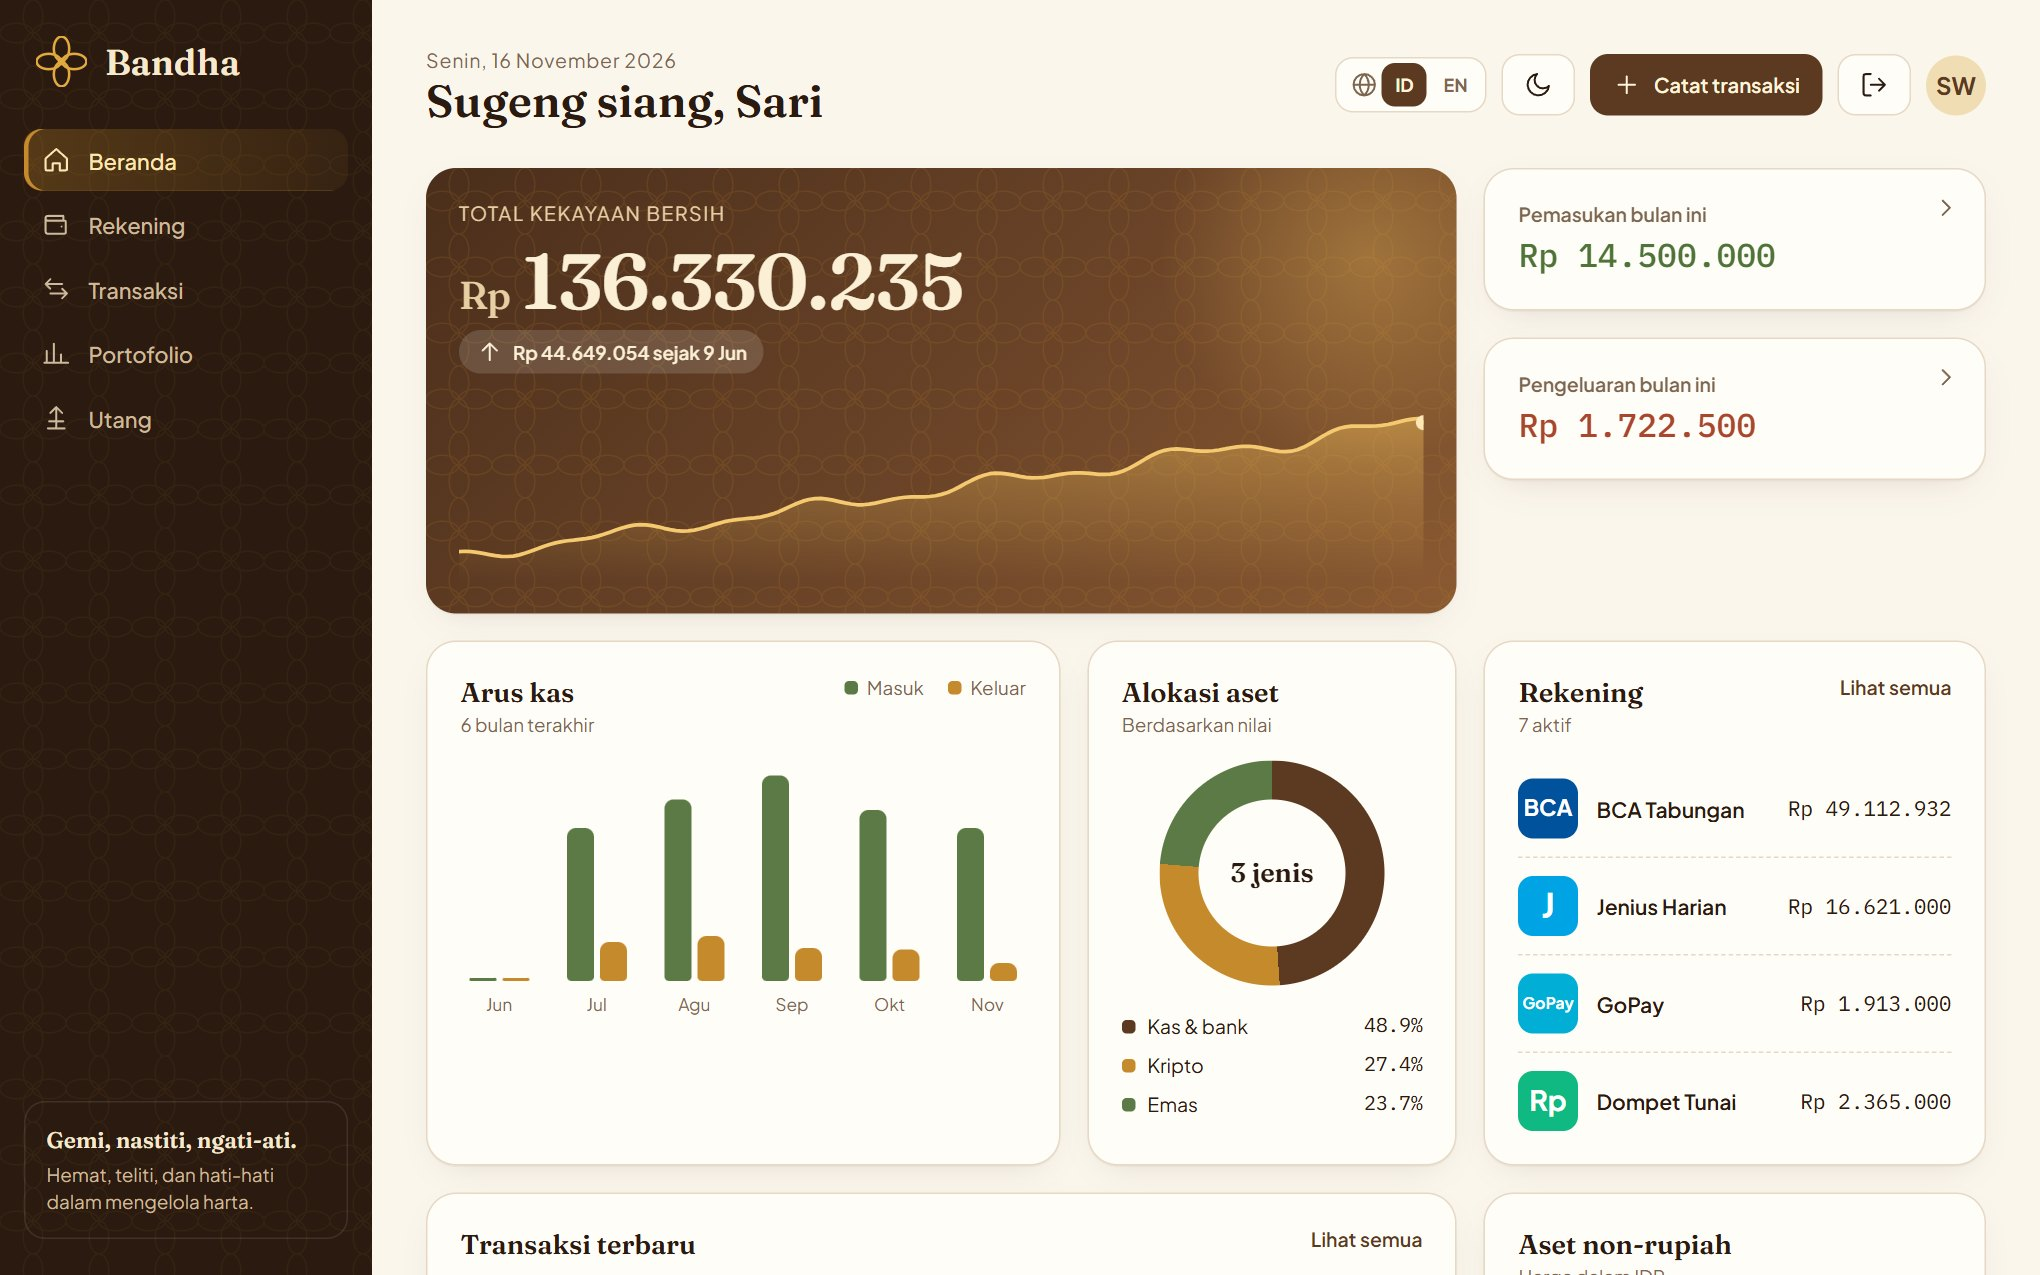
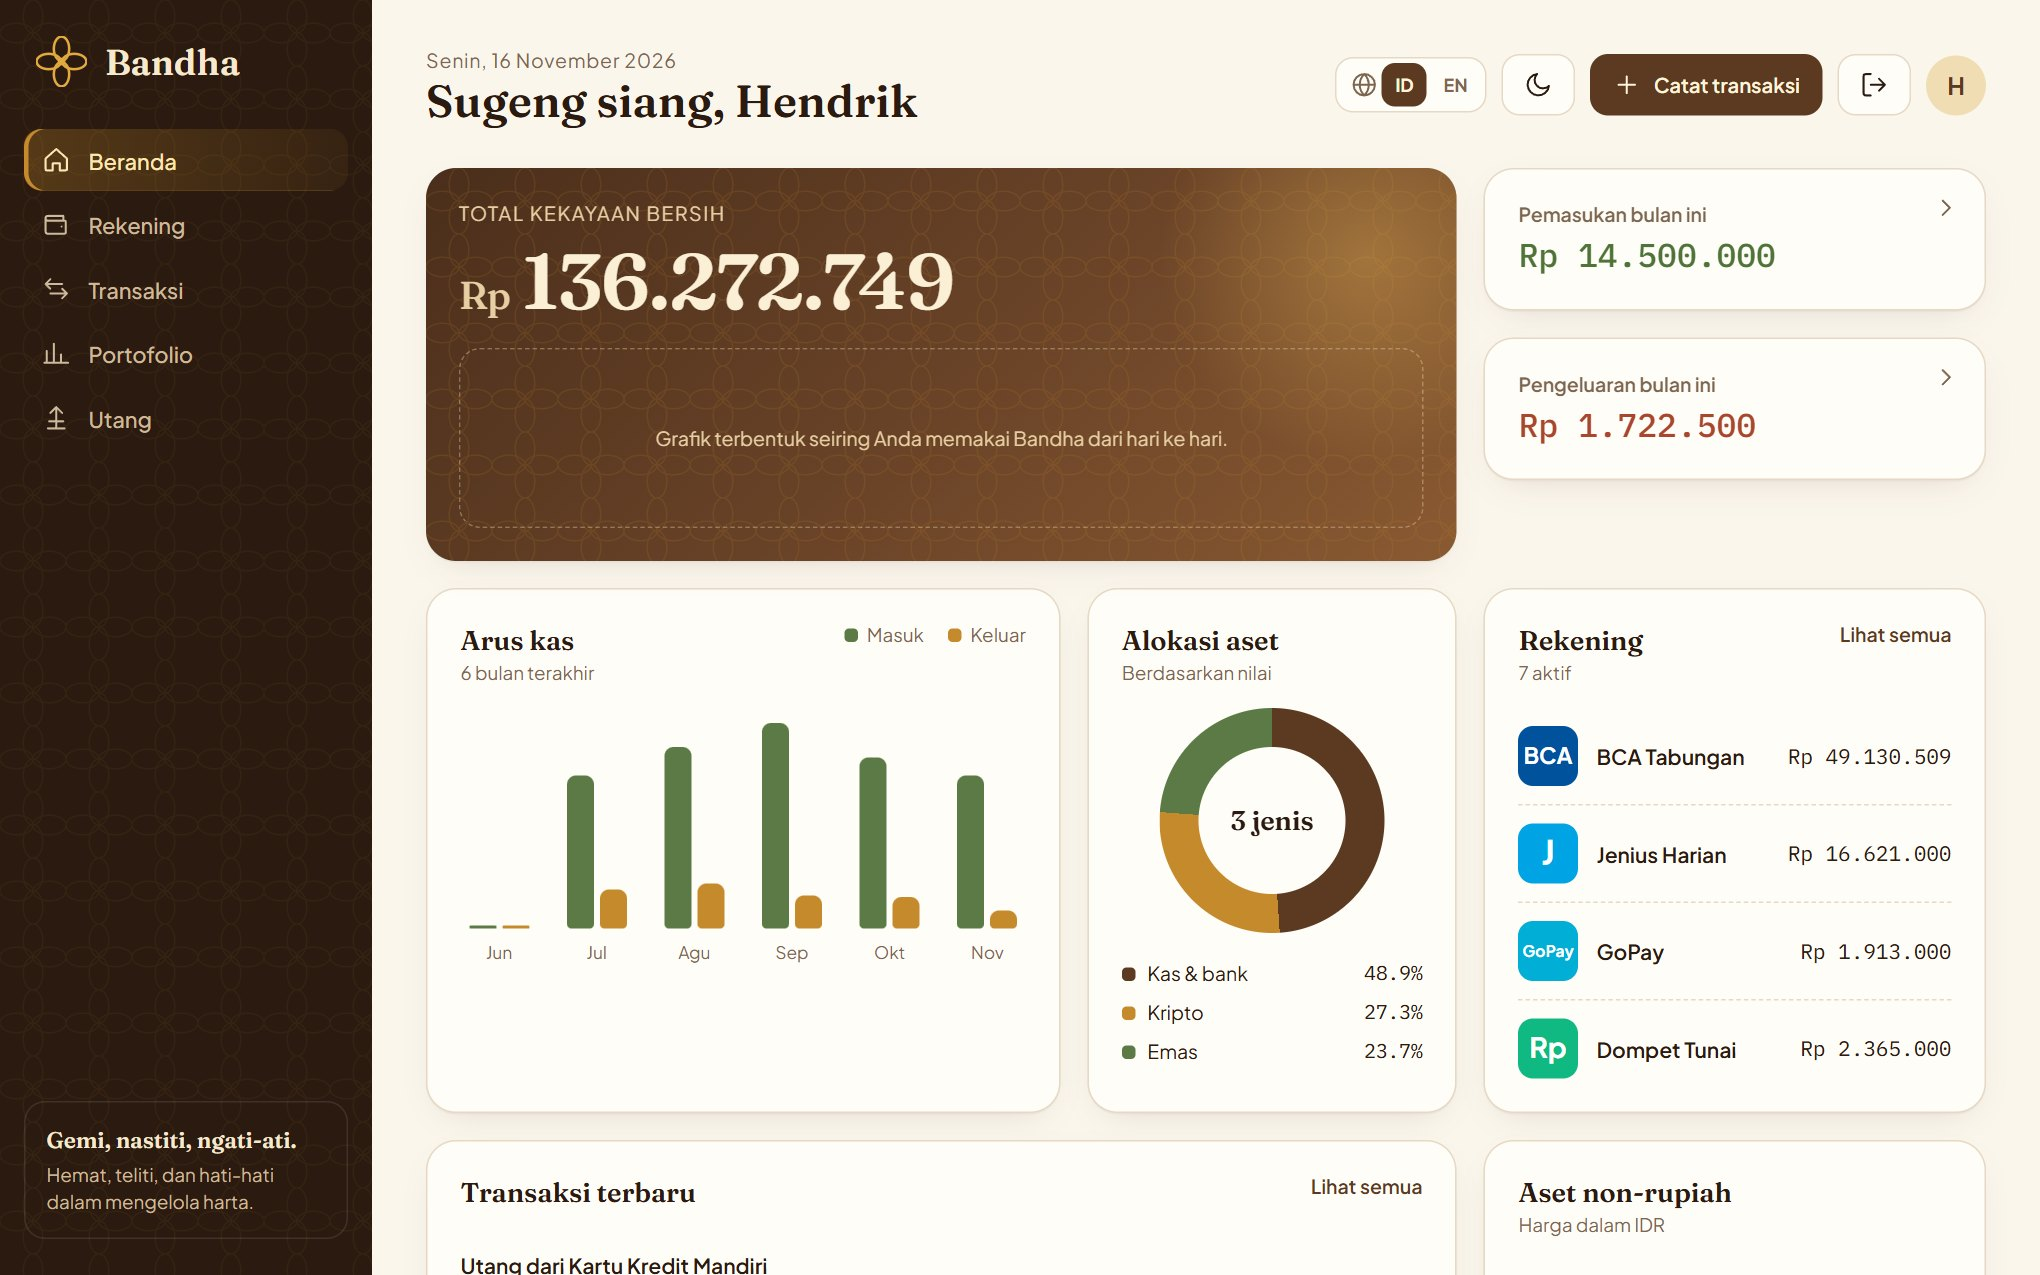
docs: re-shoot screenshots with the demo user "Hendrik"
Replaces the 17 screenshots that showed a placeholder name and updates the
README note accordingly. Demo data is still fictional.

diff --git a/README.md b/README.md
@@ -76,7 +76,7 @@ Web · Android · iOS &nbsp;|&nbsp; Indonesia & English &nbsp;|&nbsp; Terang & g
   </tr>
 </table>
 
-> Semua tangkapan layar memakai **data fiktif** (pengguna "Sari Wulandari"); tidak ada data nyata di dalamnya. Tangkapan layar mobile diambil dari pratinjau Expo web.
+> Semua tangkapan layar memakai **data fiktif** (pengguna demo "Hendrik"); tidak ada data nyata di dalamnya. Tangkapan layar mobile diambil dari pratinjau Expo web.
 
 ## Prinsip akuntansi
 
